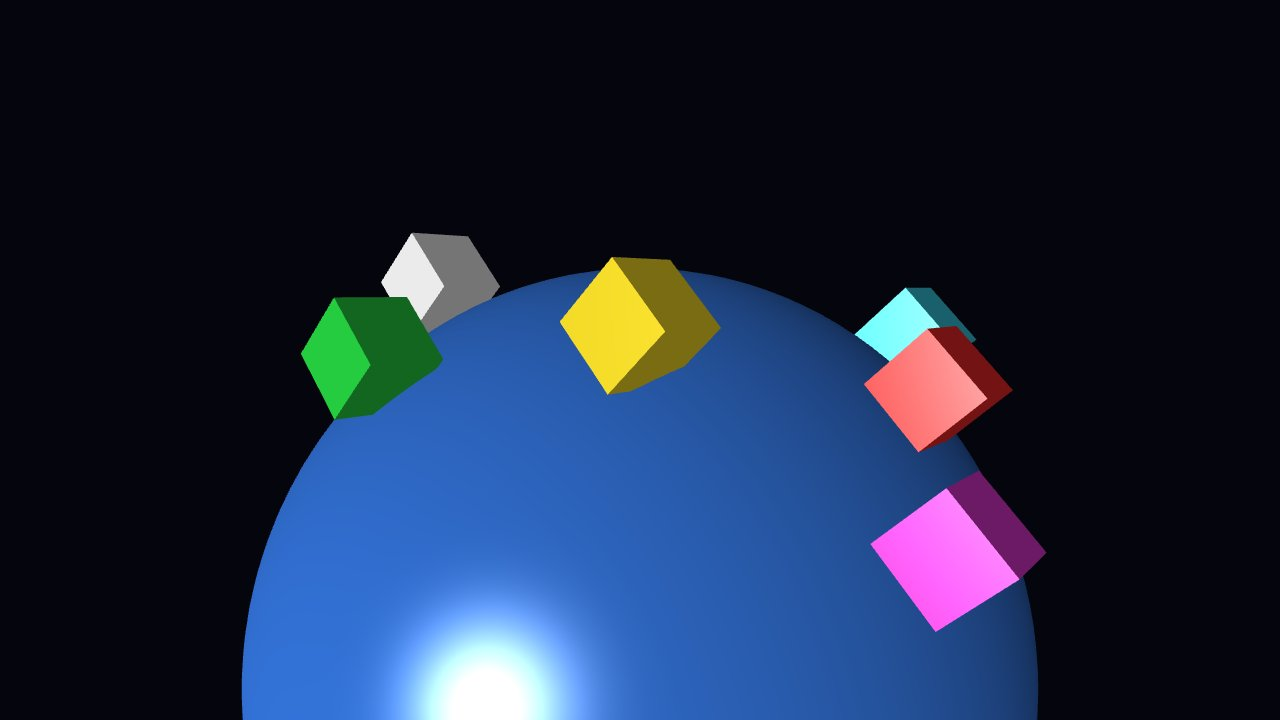
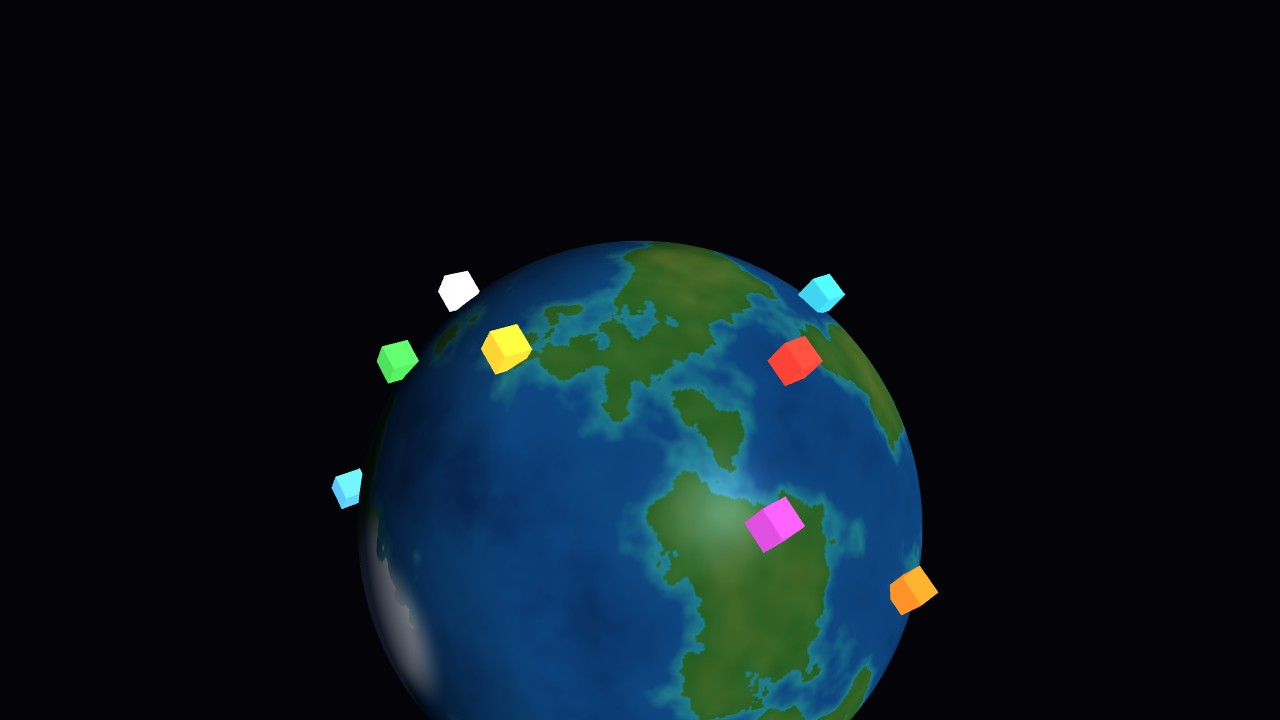
feat(scene225): richer Earth-like globe for GeospatialCamera demo
Replace the flat blue sphere with a textured, lit Earth:
- Procedurally generated equirectangular Earth map (seamless 3D value-noise
  oceans/continents + polar ice caps), committed as a deterministic asset and
  loaded byte-for-byte by both the Lite scene and the BJS oracle.
- Directional "sun" key light for a day/night terminator plus a dim hemispheric
  earthshine fill; eight emissive marker "cities" ring the globe.

Parity preserved (MAD=0.000) and bundle stays under ceiling (51.1 KB raw < 52).
Updates scene-config description, thumbnail and bundle manifest.

diff --git a/lab/lite/src/lite/scene225.ts b/lab/lite/src/lite/scene225.ts
@@ -1,16 +1,21 @@
-// Scene 225: Geospatial (globe-orbit) camera — static deterministic pose.
+// Scene 225: Geospatial (globe-orbit) camera.
 //
-// A blue globe (sphere of radius PLANET_RADIUS, centred at the world origin) is
-// orbited by a GeospatialCamera anchored to a surface point. Six distinct
-// coloured marker cubes sit on the surface at fixed lat/long positions to break
-// the sphere's rotational symmetry so the camera's yaw/pitch/radius are all
-// observable in the render. The camera is set to a fixed center/yaw/pitch/radius
-// (no controls attached) so the frame is fully deterministic and can be compared
-// pixel-for-pixel against the Babylon.js `GeospatialCamera` oracle.
+// A lit planet (sphere of radius PLANET_RADIUS, centred at the world origin) is
+// orbited by a GeospatialCamera anchored to a surface point. A directional "sun"
+// light carves a day/night terminator across the globe and glints off the ocean
+// specular, a dim hemispheric light supplies cool earthshine on the night side,
+// and a spray of emissive marker "cities" trace the surface so the camera's
+// yaw/pitch/radius are all observable.
+//
+// The camera is placed at a fixed deterministic center/yaw/pitch/radius and the
+// FIRST rendered frame is captured for pixel-for-pixel parity against the
+// Babylon.js `GeospatialCamera` oracle. The globe is wrapped in a procedurally
+// generated Earth map (oceans/continents/ice caps) shared byte-for-byte with the
+// BJS reference, so the textured render stays deterministic and parity-safe.
 //
 // World "north" in Babylon's left-handed scene is +Z, so the ECEF mapping places
-// the north pole at +Z and the equator in the XY plane. Markers and the camera
-// centre are computed from the SAME lat/long → ECEF helper as the BJS reference.
+// the north pole at +Z and the equator in the XY plane. Markers, lights and the
+// camera centre are computed from the SAME lat/long → ECEF helper as the BJS ref.
 
 import {
     addToScene,
@@ -21,18 +26,28 @@ import {
     createBox,
     createStandardMaterial,
     createHemisphericLight,
+    createDirectionalLight,
     registerScene,
     createGeospatialCamera,
     setGeospatialOrientation,
+    loadTexture2D,
 } from "babylon-lite";
 
 const PLANET_RADIUS = 100;
-const CAMERA_RADIUS = 170;
-const CAMERA_YAW = 0.6;
-const CAMERA_PITCH = 0.85;
-const CENTER_LAT = 20;
-const CENTER_LON = 30;
-const MARKER_SIZE = 18;
+const CAMERA_RADIUS = 235;
+const CAMERA_YAW = 0.55;
+const CAMERA_PITCH = 0.6;
+const CENTER_LAT = 12;
+const CENTER_LON = 22;
+const MARKER_SIZE = 9;
+
+// Directional "sun" — grazing the visible disk to carve a day/night terminator.
+const SUN_DIR: [number, number, number] = [-0.92, -0.1, 0.38];
+
+// Procedurally generated stylized Earth map (committed asset, shared with the BJS
+// oracle so the textured globe is pixel-for-pixel identical). See
+// scripts/gen-earth-texture.mjs.
+const EARTH_TEXTURE_URL = "/textures/earth-procedural.png";
 
 interface Marker {
     lat: number;
@@ -41,12 +56,14 @@ interface Marker {
 }
 
 const MARKERS: Marker[] = [
-    { lat: 0, lon: 0, color: [0.9, 0.15, 0.15] },
-    { lat: 20, lon: 30, color: [0.95, 0.85, 0.15] },
-    { lat: 40, lon: 60, color: [0.15, 0.8, 0.25] },
-    { lat: -15, lon: 15, color: [0.85, 0.2, 0.8] },
-    { lat: 10, lon: -20, color: [0.2, 0.75, 0.85] },
-    { lat: 60, lon: 45, color: [0.92, 0.92, 0.92] },
+    { lat: 0, lon: 0, color: [0.95, 0.25, 0.2] },
+    { lat: 25, lon: 40, color: [0.97, 0.8, 0.2] },
+    { lat: 45, lon: 70, color: [0.3, 0.85, 0.35] },
+    { lat: -20, lon: 18, color: [0.85, 0.3, 0.85] },
+    { lat: 12, lon: -25, color: [0.25, 0.8, 0.9] },
+    { lat: 58, lon: 50, color: [0.95, 0.95, 0.95] },
+    { lat: -42, lon: -12, color: [0.98, 0.55, 0.15] },
+    { lat: 33, lon: 108, color: [0.35, 0.75, 0.95] },
 ];
 
 /** Latitude/longitude (degrees) → ECEF position on a sphere of `r`, with +Z = north pole. */
@@ -62,7 +79,7 @@ async function main(): Promise<void> {
     const canvas = document.getElementById("renderCanvas") as HTMLCanvasElement;
     const engine = await createEngine(canvas);
     const scene = createSceneContext(engine);
-    scene.clearColor = { r: 0.02, g: 0.02, b: 0.05, a: 1 };
+    scene.clearColor = { r: 0.01, g: 0.01, b: 0.03, a: 1 };
 
     const cam = createGeospatialCamera({ planetRadius: PLANET_RADIUS });
     cam.fov = 0.8;
@@ -76,18 +93,35 @@ async function main(): Promise<void> {
     });
     scene.camera = cam;
 
-    addToScene(scene, createHemisphericLight([0, 1, 0], 1.0));
+    // Sun: warm directional key light → day/night terminator + ocean glint.
+    const sun = createDirectionalLight(SUN_DIR, 1.6);
+    sun.diffuse = [1.0, 0.95, 0.88];
+    sun.specular = [1.0, 1.0, 1.0];
+    addToScene(scene, sun);
+
+    // Dim hemispheric fill → cool "earthshine" so the night side isn't pure black.
+    const fill = createHemisphericLight([0, 1, 0], 0.12);
+    fill.diffuseColor = [0.45, 0.55, 0.8];
+    fill.groundColor = [0.03, 0.04, 0.09];
+    fill.specularColor = [0, 0, 0];
+    addToScene(scene, fill);
 
     const globe = createSphere(engine, { diameter: PLANET_RADIUS * 2, segments: 64 });
     const globeMat = createStandardMaterial();
-    globeMat.diffuseColor = [0.2, 0.45, 0.85];
+    globeMat.diffuseColor = [1, 1, 1];
+    globeMat.diffuseTexture = await loadTexture2D(engine, EARTH_TEXTURE_URL, { invertY: true });
+    globeMat.specularColor = [0.12, 0.14, 0.18];
+    globeMat.specularPower = 96;
+    globeMat.emissiveColor = [0.02, 0.03, 0.05];
     globe.material = globeMat;
     addToScene(scene, globe);
 
     for (const m of MARKERS) {
         const box = createBox(engine, MARKER_SIZE);
         const mat = createStandardMaterial();
-        mat.diffuseColor = m.color;
+        mat.diffuseColor = [m.color[0] * 0.2, m.color[1] * 0.2, m.color[2] * 0.2];
+        mat.emissiveColor = m.color;
+        mat.specularColor = [0, 0, 0];
         box.material = mat;
         const p = ecef(m.lat, m.lon, PLANET_RADIUS + MARKER_SIZE / 2);
         box.position.set(p.x, p.y, p.z);
@@ -96,6 +130,7 @@ async function main(): Promise<void> {
 
     await registerScene(engine, scene);
     await startEngine(engine);
+
     canvas.dataset.drawCalls = String(engine.drawCallCount);
     canvas.dataset.initMs = String(performance.now() - __initStart);
     canvas.dataset.ready = "true";

diff --git a/lab/lite/src/bjs/scene225.ts b/lab/lite/src/bjs/scene225.ts
@@ -1,10 +1,12 @@
 // BJS reference for scene 225 — Babylon.js GeospatialCamera oracle.
 //
-// Mirrors the Lite scene225: a blue globe (sphere radius PLANET_RADIUS at the
-// world origin) orbited by a GeospatialCamera anchored to a surface point, with
-// six coloured marker cubes on the surface to make yaw/pitch/radius observable.
-// The camera is set to the SAME fixed center/radius/yaw/pitch (no controls
-// attached) so both engines render an identical frame.
+// Mirrors the Lite scene225: a lit planet (sphere radius PLANET_RADIUS at the
+// world origin) orbited by a GeospatialCamera anchored to a surface point, with a
+// directional "sun" (day/night terminator + ocean glint), a dim hemispheric fill
+// and emissive marker "cities". The camera is set to the SAME fixed
+// center/radius/yaw/pitch (no controls attached) so both engines render an
+// identical frame. Lighting/material values are kept in lock-step with the Lite
+// scene so the comparison is pixel-for-pixel.
 //
 // IMPORTANT — property order: GeospatialCamera clamps pitch against the effective
 // pitch-max for the CURRENT radius (pitch is disabled as the camera zooms out).
@@ -14,20 +16,26 @@
 
 import { GeospatialCamera } from "@babylonjs/core/Cameras/geospatialCamera";
 import { WebGPUEngine } from "@babylonjs/core/Engines/webgpuEngine";
+import { DirectionalLight } from "@babylonjs/core/Lights/directionalLight";
 import { HemisphericLight } from "@babylonjs/core/Lights/hemisphericLight";
 import { Color3, Color4 } from "@babylonjs/core/Maths/math.color";
 import { Vector3 } from "@babylonjs/core/Maths/math.vector";
 import { MeshBuilder } from "@babylonjs/core/Meshes/meshBuilder";
 import { StandardMaterial } from "@babylonjs/core/Materials/standardMaterial";
+import { Texture } from "@babylonjs/core/Materials/Textures/texture";
 import { Scene } from "@babylonjs/core/scene";
 
 const PLANET_RADIUS = 100;
-const CAMERA_RADIUS = 170;
-const CAMERA_YAW = 0.6;
-const CAMERA_PITCH = 0.85;
-const CENTER_LAT = 20;
-const CENTER_LON = 30;
-const MARKER_SIZE = 18;
+const CAMERA_RADIUS = 235;
+const CAMERA_YAW = 0.55;
+const CAMERA_PITCH = 0.6;
+const CENTER_LAT = 12;
+const CENTER_LON = 22;
+const MARKER_SIZE = 9;
+
+const SUN_DIR: [number, number, number] = [-0.92, -0.1, 0.38];
+
+const EARTH_TEXTURE_URL = "/textures/earth-procedural.png";
 
 interface Marker {
     lat: number;
@@ -36,12 +44,14 @@ interface Marker {
 }
 
 const MARKERS: Marker[] = [
-    { lat: 0, lon: 0, color: [0.9, 0.15, 0.15] },
-    { lat: 20, lon: 30, color: [0.95, 0.85, 0.15] },
-    { lat: 40, lon: 60, color: [0.15, 0.8, 0.25] },
-    { lat: -15, lon: 15, color: [0.85, 0.2, 0.8] },
-    { lat: 10, lon: -20, color: [0.2, 0.75, 0.85] },
-    { lat: 60, lon: 45, color: [0.92, 0.92, 0.92] },
+    { lat: 0, lon: 0, color: [0.95, 0.25, 0.2] },
+    { lat: 25, lon: 40, color: [0.97, 0.8, 0.2] },
+    { lat: 45, lon: 70, color: [0.3, 0.85, 0.35] },
+    { lat: -20, lon: 18, color: [0.85, 0.3, 0.85] },
+    { lat: 12, lon: -25, color: [0.25, 0.8, 0.9] },
+    { lat: 58, lon: 50, color: [0.95, 0.95, 0.95] },
+    { lat: -42, lon: -12, color: [0.98, 0.55, 0.15] },
+    { lat: 33, lon: 108, color: [0.35, 0.75, 0.95] },
 ];
 
 /** Latitude/longitude (degrees) → ECEF position on a sphere of `r`, with +Z = north pole. */
@@ -59,7 +69,7 @@ function ecef(latDeg: number, lonDeg: number, r: number): Vector3 {
     await engine.initAsync();
 
     const scene = new Scene(engine);
-    scene.clearColor = new Color4(0.02, 0.02, 0.05, 1);
+    scene.clearColor = new Color4(0.01, 0.01, 0.03, 1);
 
     const cam = new GeospatialCamera("cam", scene, { planetRadius: PLANET_RADIUS });
     cam.fov = 0.8;
@@ -70,18 +80,33 @@ function ecef(latDeg: number, lonDeg: number, r: number): Vector3 {
     cam.yaw = CAMERA_YAW;
     cam.pitch = CAMERA_PITCH;
 
-    new HemisphericLight("h", new Vector3(0, 1, 0), scene);
+    const sun = new DirectionalLight("sun", new Vector3(SUN_DIR[0], SUN_DIR[1], SUN_DIR[2]), scene);
+    sun.intensity = 1.6;
+    sun.diffuse = new Color3(1.0, 0.95, 0.88);
+    sun.specular = new Color3(1.0, 1.0, 1.0);
+
+    const fill = new HemisphericLight("fill", new Vector3(0, 1, 0), scene);
+    fill.intensity = 0.12;
+    fill.diffuse = new Color3(0.45, 0.55, 0.8);
+    fill.groundColor = new Color3(0.03, 0.04, 0.09);
+    fill.specular = new Color3(0, 0, 0);
 
     const globe = MeshBuilder.CreateSphere("globe", { diameter: PLANET_RADIUS * 2, segments: 64 }, scene);
     const globeMat = new StandardMaterial("globeMat", scene);
-    globeMat.diffuseColor = new Color3(0.2, 0.45, 0.85);
+    globeMat.diffuseColor = new Color3(1, 1, 1);
+    globeMat.diffuseTexture = new Texture(EARTH_TEXTURE_URL, scene, false, true);
+    globeMat.specularColor = new Color3(0.12, 0.14, 0.18);
+    globeMat.specularPower = 96;
+    globeMat.emissiveColor = new Color3(0.02, 0.03, 0.05);
     globe.material = globeMat;
 
     for (let i = 0; i < MARKERS.length; i++) {
         const m = MARKERS[i]!;
         const box = MeshBuilder.CreateBox("marker" + i, { size: MARKER_SIZE }, scene);
         const mat = new StandardMaterial("markerMat" + i, scene);
-        mat.diffuseColor = new Color3(m.color[0], m.color[1], m.color[2]);
+        mat.diffuseColor = new Color3(m.color[0] * 0.2, m.color[1] * 0.2, m.color[2] * 0.2);
+        mat.emissiveColor = new Color3(m.color[0], m.color[1], m.color[2]);
+        mat.specularColor = new Color3(0, 0, 0);
         box.material = mat;
         box.position = ecef(m.lat, m.lon, PLANET_RADIUS + MARKER_SIZE / 2);
     }